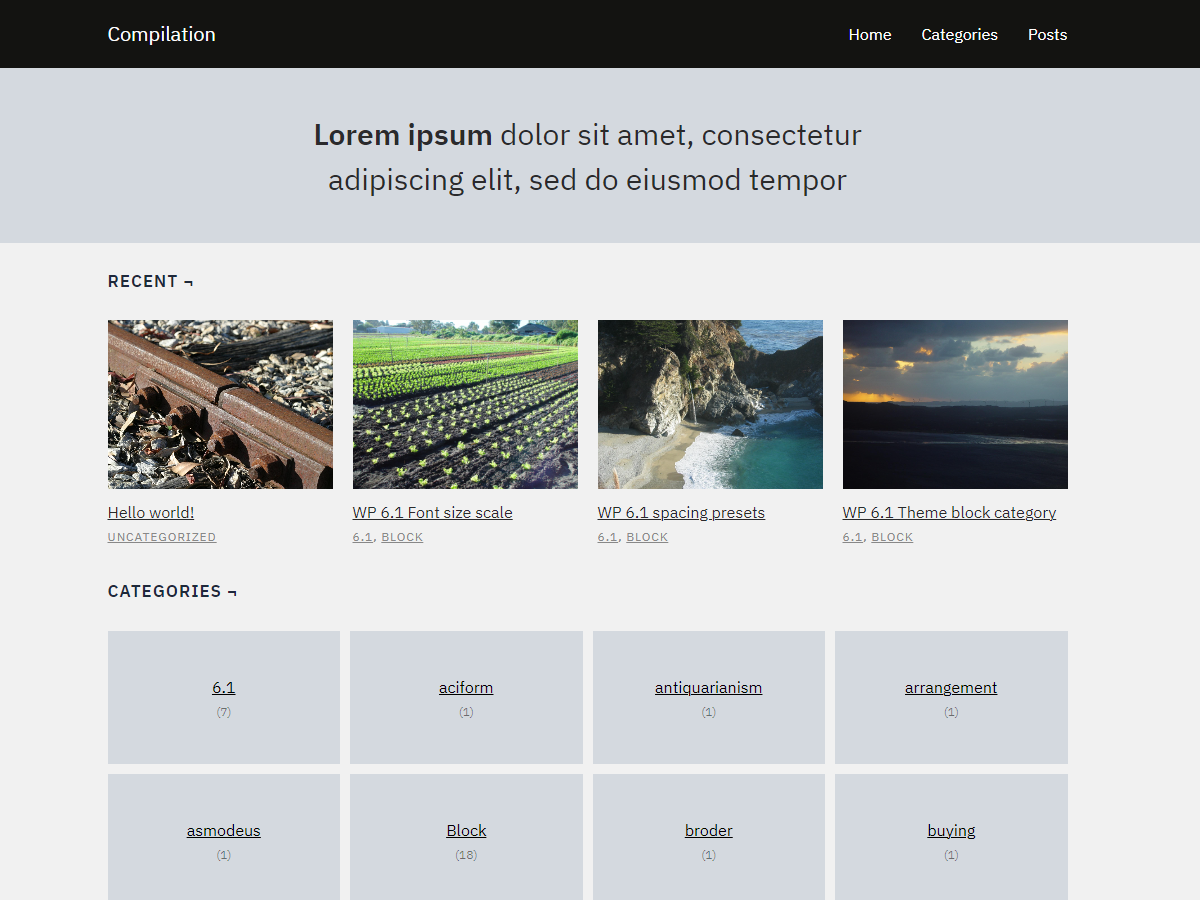
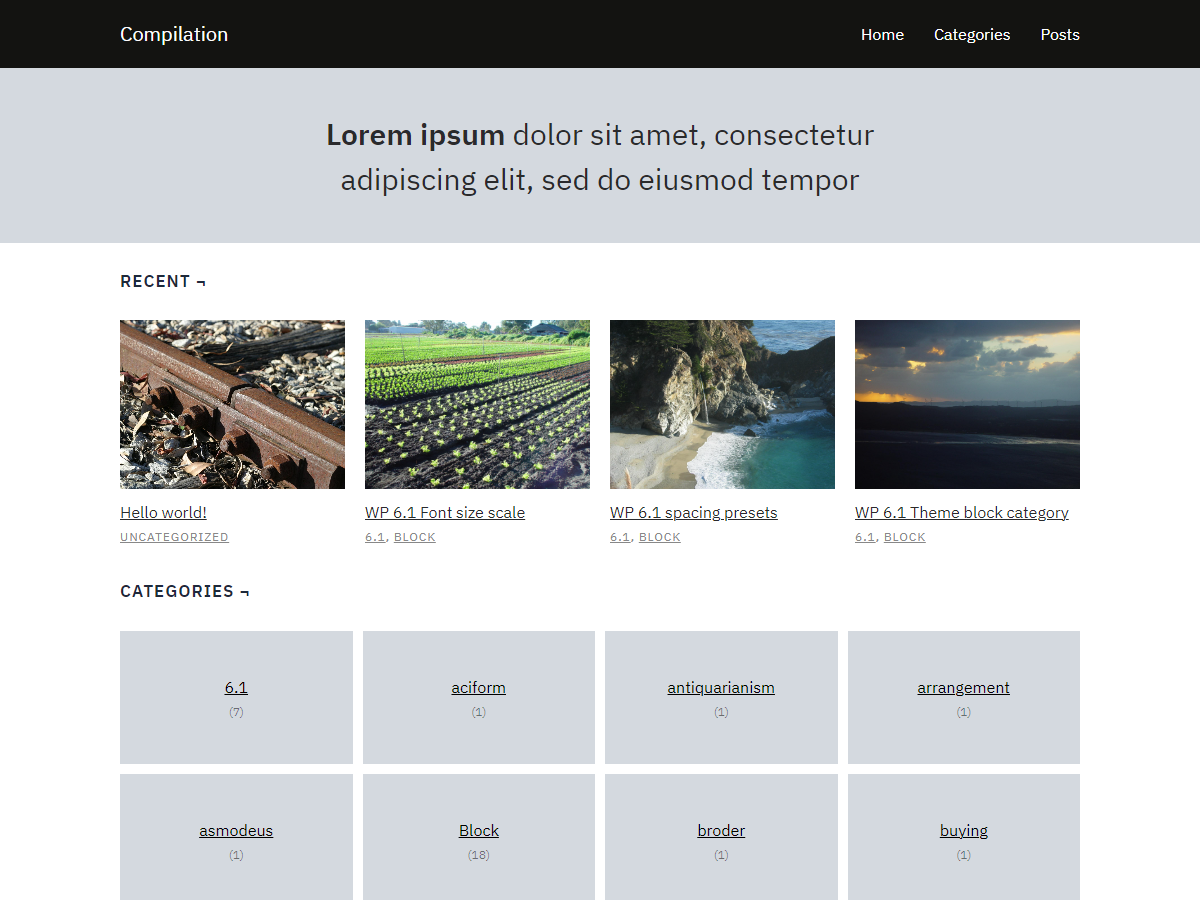
version 1.0.3

diff --git a/templates/page.html b/templates/page.html
@@ -1,13 +1,20 @@
 <!-- wp:template-part {"slug":"header","tagName":"header","className":"site-header"} /-->
 
 <!-- wp:group {"tagName":"main","style":{"spacing":{"margin":{"top":"0"},"padding":{"top":"0","bottom":"var:preset|spacing|large"}}}} -->
-<main class="wp-block-group" style="margin-top:0;padding-top:0;padding-bottom:var(--wp--preset--spacing--large)"><!-- wp:group {"tagName":"article","layout":{"type":"default"}} -->
-<article class="wp-block-group"><!-- wp:group {"tagName":"header","style":{"spacing":{"blockGap":"10px","padding":{"top":"45px","bottom":"45px","left":"0","right":"0"},"margin":{"top":"0","bottom":"0"}},"color":{"background":"#2a2a2c"},"elements":{"link":{"color":{"text":"var:preset|color|base"}}}},"textColor":"base","className":"entry-header","layout":{"type":"constrained","justifyContent":"center","contentSize":"960px"}} -->
-<header class="wp-block-group entry-header has-base-color has-text-color has-background has-link-color" style="background-color:#2a2a2c;margin-top:0;margin-bottom:0;padding-top:45px;padding-right:0;padding-bottom:45px;padding-left:0"><!-- wp:post-title {"level":1,"align":"wide","style":{"elements":{"link":{"color":{"text":"var:preset|color|white"}}}},"textColor":"white","fontSize":"x-large"} /--></header>
-<!-- /wp:group -->
+<main class="wp-block-group" style="margin-top:0;padding-top:0;padding-bottom:var(--wp--preset--spacing--large)">
+    <!-- wp:group {"tagName":"article","layout":{"type":"default"}} -->
+    <article class="wp-block-group">
+        <!-- wp:group {"tagName":"header","className":"entry-header","style":{"spacing":{"blockGap":"10px","padding":{"top":"45px","bottom":"45px","left":"0","right":"0"},"margin":{"top":"0","bottom":"0"}},"color":{"background":"#2a2a2c"},"elements":{"link":{"color":{"text":"var:preset|color|base"}}}},"textColor":"base","layout":{"type":"constrained","justifyContent":"center","contentSize":"960px"}} -->
+        <header class="wp-block-group entry-header has-base-color has-text-color has-background has-link-color"
+            style="background-color:#2a2a2c;margin-top:0;margin-bottom:0;padding-top:45px;padding-right:0;padding-bottom:45px;padding-left:0">
+            <!-- wp:post-title {"level":1,"style":{"elements":{"link":{"color":{"text":"var:preset|color|white"}}}},"textColor":"white","fontSize":"x-large"} /-->
+        </header>
+        <!-- /wp:group -->
 
-<!-- wp:post-content {"layout":{"type":"constrained","contentSize":"960px"}} /--></article>
-<!-- /wp:group --></main>
+        <!-- wp:post-content {"layout":{"type":"constrained"}} /-->
+    </article>
+    <!-- /wp:group -->
+</main>
 <!-- /wp:group -->
 
 <!-- wp:template-part {"slug":"footer","tagName":"footer","className":"site-footer"} /-->

diff --git a/templates/single.html b/templates/single.html
@@ -3,10 +3,10 @@
 <!-- wp:group {"tagName":"main","style":{"spacing":{"margin":{"top":"0"},"padding":{"top":"0","bottom":"0"}}}} -->
 <main class="wp-block-group" style="margin-top:0;padding-top:0;padding-bottom:0"><!-- wp:group {"tagName":"article","layout":{"type":"default"}} -->
 <article class="wp-block-group"><!-- wp:group {"tagName":"header","style":{"spacing":{"blockGap":"10px","padding":{"top":"45px","bottom":"45px","left":"0","right":"0"},"margin":{"top":"0","bottom":"0"}},"elements":{"link":{"color":{"text":"var:preset|color|secondary"}}},"color":{"background":"#d4d9df"}},"textColor":"secondary","className":"entry-header","layout":{"type":"constrained"}} -->
-<header class="wp-block-group entry-header has-secondary-color has-text-color has-background has-link-color" style="background-color:#d4d9df;margin-top:0;margin-bottom:0;padding-top:45px;padding-right:0;padding-bottom:45px;padding-left:0"><!-- wp:post-title {"level":1,"align":"wide","style":{"elements":{"link":{"color":{"text":"var:preset|color|secondary"}}}},"textColor":"secondary","fontSize":"x-large"} /-->
+<header class="wp-block-group entry-header has-secondary-color has-text-color has-background has-link-color" style="background-color:#d4d9df;margin-top:0;margin-bottom:0;padding-top:45px;padding-right:0;padding-bottom:45px;padding-left:0"><!-- wp:post-title {"level":1,"style":{"elements":{"link":{"color":{"text":"var:preset|color|secondary"}}}},"textColor":"secondary","fontSize":"x-large"} /-->
 
-<!-- wp:group {"align":"wide","style":{"spacing":{"blockGap":"5px","margin":{"bottom":"0px"}},"typography":{"fontSize":"18px"}},"className":"post-meta","layout":{"type":"flex"}} -->
-<div class="wp-block-group alignwide post-meta" style="margin-bottom:0px;font-size:18px"><!-- wp:post-date {"style":{"elements":{"link":{"color":{"text":"var:preset|color|primary"}}},"typography":{"fontSize":"14px"}},"textColor":"primary"} /-->
+<!-- wp:group {"style":{"spacing":{"blockGap":"5px","margin":{"bottom":"0px"}},"typography":{"fontSize":"18px"}},"className":"post-meta","layout":{"type":"flex"}} -->
+<div class="wp-block-group post-meta" style="margin-bottom:0px;font-size:18px"><!-- wp:post-date {"style":{"elements":{"link":{"color":{"text":"var:preset|color|primary"}}},"typography":{"fontSize":"14px"}},"textColor":"primary"} /-->
 
 <!-- wp:paragraph -->
 <p>·</p>

diff --git a/templates/archive.html b/templates/archive.html
@@ -1,9 +1,9 @@
 <!-- wp:template-part {"slug":"header","tagName":"header","className":"site-header"} /-->
 
 <!-- wp:group {"style":{"spacing":{"blockGap":"10px","padding":{"top":"45px","bottom":"45px","left":"0","right":"0"},"margin":{"top":"0","bottom":"0"}},"elements":{"link":{"color":{"text":"var:preset|color|secondary"}}},"color":{"background":"#d4d9df"}},"textColor":"secondary","className":"entry-header","layout":{"type":"constrained"}} -->
-<div class="wp-block-group entry-header has-secondary-color has-text-color has-background has-link-color" style="background-color:#d4d9df;margin-top:0;margin-bottom:0;padding-top:45px;padding-right:0;padding-bottom:45px;padding-left:0"><!-- wp:query-title {"type":"archive","showPrefix":false,"align":"wide","style":{"elements":{"link":{"color":{"text":"var:preset|color|secondary"}}}},"textColor":"secondary","fontSize":"x-large"} /-->
+<div class="wp-block-group entry-header has-secondary-color has-text-color has-background has-link-color" style="background-color:#d4d9df;margin-top:0;margin-bottom:0;padding-top:45px;padding-right:0;padding-bottom:45px;padding-left:0"><!-- wp:query-title {"type":"archive","showPrefix":false,"style":{"elements":{"link":{"color":{"text":"var:preset|color|secondary"}}}},"textColor":"secondary","fontSize":"x-large"} /-->
 
-<!-- wp:term-description {"align":"wide","style":{"spacing":{"blockGap":"5px","margin":{"bottom":"0px"}},"typography":{"fontSize":"14px"},"elements":{"link":{"color":{"text":"var:preset|color|primary"}}}},"textColor":"primary","className":"post-meta"} /--></div>
+<!-- wp:term-description {"style":{"spacing":{"blockGap":"5px","margin":{"bottom":"0px"}},"typography":{"fontSize":"14px"},"elements":{"link":{"color":{"text":"var:preset|color|primary"}}}},"textColor":"primary","className":"post-meta"} /--></div>
 <!-- /wp:group -->
 
 

diff --git a/style.css b/style.css
@@ -7,7 +7,7 @@ Description: A minimalist block theme for content curators. With its clean and m
 Requires at least: 6.5
 Tested up to: 6.6
 Requires PHP: 7.0
-Version: 1.0.1
+Version: 1.0.3
 License: GNU General Public License v3
 License URI: https://www.gnu.org/licenses/gpl-3.0.html
 Text Domain: compilation

diff --git a/patterns/home-default.php b/patterns/home-default.php
@@ -9,14 +9,14 @@
 <!-- wp:pattern {"slug":"compilation/hero-default"} /-->
 
 <!-- wp:group {"layout":{"type":"constrained"}} -->
-<div class="wp-block-group"><!-- wp:group {"align":"wide","layout":{"type":"flex","orientation":"vertical"}} -->
-<div class="wp-block-group alignwide"><!-- wp:heading {"textAlign":"left","level":3,"style":{"elements":{"link":{"color":{"text":"var:preset|color|contrast"}}},"typography":{"letterSpacing":"1px","lineHeight":"1","fontSize":"17px","textTransform":"uppercase","fontStyle":"normal","fontWeight":"700"},"layout":{"selfStretch":"fit","flexSize":null}},"textColor":"contrast"} -->
+<div class="wp-block-group"><!-- wp:group {"layout":{"type":"flex","orientation":"vertical"}} -->
+<div class="wp-block-group"><!-- wp:heading {"textAlign":"left","level":3,"style":{"elements":{"link":{"color":{"text":"var:preset|color|contrast"}}},"typography":{"letterSpacing":"1px","lineHeight":"1","fontSize":"17px","textTransform":"uppercase","fontStyle":"normal","fontWeight":"700"},"layout":{"selfStretch":"fit","flexSize":null}},"textColor":"contrast"} -->
 <h3 class="wp-block-heading has-text-align-left has-contrast-color has-text-color has-link-color" style="font-size:17px;font-style:normal;font-weight:700;letter-spacing:1px;line-height:1;text-transform:uppercase"><?php echo esc_html__( 'Recent ¬', 'compilation' ); ?></h3>
 <!-- /wp:heading -->
 
 <!-- wp:group {"tagName":"main","className":"is-style-default","style":{"spacing":{"margin":{"top":"0"},"padding":{"top":"0px","bottom":"0px"}}}} -->
 <main class="wp-block-group is-style-default" style="margin-top:0;padding-top:0px;padding-bottom:0px"><!-- wp:query {"queryId":0,"query":{"pages":0,"offset":0,"postType":"post","order":"desc","orderBy":"date","author":"","search":"","exclude":[],"sticky":"exclude","inherit":false,"perPage":"4"},"enhancedPagination":true,"layout":{"type":"default"}} -->
-<div class="wp-block-query"><!-- wp:post-template {"align":"wide","style":{"spacing":{"blockGap":"var:preset|spacing|x-small"}},"layout":{"type":"grid","columnCount":4}} -->
+<div class="wp-block-query"><!-- wp:post-template {"style":{"spacing":{"blockGap":"var:preset|spacing|x-small"}},"layout":{"type":"grid","columnCount":4}} -->
 <!-- wp:group {"tagName":"article","layout":{"type":"default"}} -->
 <article class="wp-block-group"><!-- wp:group {"tagName":"header","className":"entry-header","style":{"spacing":{"blockGap":"10px"}}} -->
 <header class="wp-block-group entry-header"><!-- wp:post-featured-image {"isLink":true,"aspectRatio":"4/3","style":{"border":{"radius":"0px"}}} /-->
@@ -33,11 +33,11 @@
 <!-- /wp:group -->
 
 <!-- wp:group {"style":{"spacing":{"margin":{"bottom":"40px"}}},"layout":{"type":"constrained"}} -->
-<div class="wp-block-group" style="margin-bottom:40px"><!-- wp:group {"align":"wide","layout":{"type":"flex","orientation":"vertical"}} -->
-<div class="wp-block-group alignwide"><!-- wp:heading {"textAlign":"left","style":{"elements":{"link":{"color":{"text":"var:preset|color|contrast"}}},"typography":{"fontSize":"17px","letterSpacing":"1px","textTransform":"uppercase","fontStyle":"normal","fontWeight":"700"}},"textColor":"contrast"} -->
+<div class="wp-block-group" style="margin-bottom:40px"><!-- wp:group {"layout":{"type":"flex","orientation":"vertical"}} -->
+<div class="wp-block-group"><!-- wp:heading {"textAlign":"left","style":{"elements":{"link":{"color":{"text":"var:preset|color|contrast"}}},"typography":{"fontSize":"17px","letterSpacing":"1px","textTransform":"uppercase","fontStyle":"normal","fontWeight":"700"}},"textColor":"contrast"} -->
 <h2 class="wp-block-heading has-text-align-left has-contrast-color has-text-color has-link-color" style="font-size:17px;font-style:normal;font-weight:700;letter-spacing:1px;text-transform:uppercase"><?php echo esc_html__( 'Categories ¬', 'compilation' ); ?></h2>
 <!-- /wp:heading --></div>
 <!-- /wp:group -->
 
-<!-- wp:categories {"showPostCounts":true,"showOnlyTopLevel":true,"metadata":{"name":"Compilation Categories"},"align":"wide","className":"is-style-category-block"} /--></div>
+<!-- wp:categories {"showPostCounts":true,"showOnlyTopLevel":true,"metadata":{"name":"Compilation Categories"},"className":"is-style-category-block"} /--></div>
 <!-- /wp:group -->

diff --git a/patterns/header-default.php b/patterns/header-default.php
@@ -6,9 +6,10 @@
  * Block Types: core/template-part/header
  */
 ?>
-<!-- wp:group {"style":{"color":{"background":"#131311"},"elements":{"link":{"color":{"text":"var:preset|color|white"}}},"dimensions":{"minHeight":"0px"},"spacing":{"padding":{"top":"0","bottom":"0","left":"var:preset|spacing|small","right":"var:preset|spacing|small"},"margin":{"top":"0","bottom":"0"},"blockGap":"0"}},"textColor":"white","layout":{"inherit":"true","type":"constrained","contentSize":"960px"}} -->
-<div class="wp-block-group has-white-color has-text-color has-background has-link-color" style="background-color:#131311;min-height:0px;margin-top:0;margin-bottom:0;padding-top:0;padding-right:var(--wp--preset--spacing--small);padding-bottom:0;padding-left:var(--wp--preset--spacing--small)"><!-- wp:group {"align":"wide","style":{"spacing":{"padding":{"bottom":"20px","top":"20px"}}},"layout":{"type":"flex","justifyContent":"space-between"}} -->
-<div class="wp-block-group alignwide" style="padding-top:20px;padding-bottom:20px"><!-- wp:group {"layout":{"type":"flex"}} -->
+
+<!-- wp:group {"style":{"color":{"background":"#131311"},"elements":{"link":{"color":{"text":"var:preset|color|white"}}},"dimensions":{"minHeight":"0px"},"spacing":{"padding":{"top":"0","bottom":"0","left":"var:preset|spacing|small","right":"var:preset|spacing|small"},"margin":{"top":"0","bottom":"0"},"blockGap":"0"}},"textColor":"white","layout":{"type":"constrained"}} -->
+<div class="wp-block-group has-white-color has-text-color has-background has-link-color" style="background-color:#131311;min-height:0px;margin-top:0;margin-bottom:0;padding-top:0;padding-right:var(--wp--preset--spacing--small);padding-bottom:0;padding-left:var(--wp--preset--spacing--small)"><!-- wp:group {"style":{"spacing":{"padding":{"bottom":"20px","top":"20px"}}},"layout":{"type":"flex","justifyContent":"space-between"}} -->
+<div class="wp-block-group" style="padding-top:20px;padding-bottom:20px"><!-- wp:group {"layout":{"type":"flex"}} -->
 <div class="wp-block-group"><!-- wp:site-logo {"width":64,"className":"is-style-rounded","style":{"color":{"duotone":"var:preset|duotone|grayscale"}}} /-->
 
 <!-- wp:group -->
@@ -19,4 +20,3 @@
 <!-- wp:navigation {"ref":2224,"style":{"spacing":{"margin":{"top":"0"}},"layout":{"selfStretch":"fit","flexSize":null}},"fontSize":"x-small","layout":{"type":"flex","setCascadingProperties":true,"justifyContent":"right","orientation":"horizontal"}} /--></div>
 <!-- /wp:group --></div>
 <!-- /wp:group -->
-

diff --git a/patterns/footer-default.php b/patterns/footer-default.php
@@ -7,8 +7,8 @@
  */
 ?>
 <!-- wp:group {"align":"full","style":{"elements":{"link":{"color":{"text":"var:preset|color|base"}}},"spacing":{"padding":{"top":"40px","bottom":"40px","left":"30px","right":"30px"},"margin":{"top":"0","bottom":"0"}}},"backgroundColor":"secondary","textColor":"base","className":"has-background-color","layout":{"type":"constrained","contentSize":"960px"},"fontSize":"small"} -->
-<div class="wp-block-group alignfull has-background-color has-base-color has-secondary-background-color has-text-color has-background has-link-color has-small-font-size" style="margin-top:0;margin-bottom:0;padding-top:40px;padding-right:30px;padding-bottom:40px;padding-left:30px"><!-- wp:columns {"align":"wide","style":{"elements":{"link":{"color":[]}}}} -->
-<div class="wp-block-columns alignwide has-link-color"><!-- wp:column {"width":"55%"} -->
+<div class="wp-block-group alignfull has-background-color has-base-color has-secondary-background-color has-text-color has-background has-link-color has-small-font-size" style="margin-top:0;margin-bottom:0;padding-top:40px;padding-right:30px;padding-bottom:40px;padding-left:30px"><!-- wp:columns {"style":{"elements":{"link":{"color":[]}}}} -->
+<div class="wp-block-columns has-link-color"><!-- wp:column {"width":"55%"} -->
 <div class="wp-block-column" style="flex-basis:55%"><!-- wp:heading {"level":4,"style":{"typography":{"lineHeight":"1"}},"className":"wp-block-heading","fontSize":"medium"} -->
 <h4 class="wp-block-heading has-medium-font-size" id="our-company" style="line-height:1"><?php echo esc_html__( 'About ¬', 'compilation' ); ?></h4>
 <!-- /wp:heading -->
@@ -18,7 +18,7 @@
 <!-- /wp:paragraph -->
 
 <!-- wp:paragraph {"align":"left","style":{"elements":{"link":{"color":{"text":"var:preset|color|cyan-bluish-gray"}}},"typography":{"fontSize":"15px"}}} -->
-<p class="has-text-align-left has-link-color" style="font-size:15px">&copy; <?php echo esc_html( gmdate( 'Y' ) ); ?> • Powered by <a href="https://mildthemes.co/compilation-wordpress-theme/" target="_blank">Compilation WordPress theme</a>.</p>
+<p class="has-text-align-left has-link-color" style="font-size:15px">&copy; <?php echo esc_html( gmdate( 'Y' ) ); ?> • Powered by WordPress & <a href="https://mildthemes.co/compilation-wordpress-theme/" target="_blank">Compilation</a></p>
 <!-- /wp:paragraph --></div>
 <!-- /wp:column -->
 

diff --git a/patterns/posts.php b/patterns/posts.php
@@ -8,7 +8,7 @@
 ?>
 <!-- wp:group {"tagName":"main","style":{"spacing":{"margin":{"top":"0"},"padding":{"top":"40px","bottom":"0px"}}},"className":"is-style-default"} -->
 <main class="wp-block-group is-style-default" style="margin-top:0;padding-top:40px;padding-bottom:0px"><!-- wp:query {"queryId":0,"query":{"pages":0,"offset":0,"postType":"post","order":"desc","orderBy":"date","author":"","search":"","exclude":[],"sticky":"","inherit":true,"perPage":12},"layout":{"type":"constrained"}} -->
-<div class="wp-block-query"><!-- wp:post-template {"align":"wide","style":{"spacing":{"blockGap":"var:preset|spacing|x-small"}},"layout":{"type":"grid","columnCount":4}} -->
+<div class="wp-block-query"><!-- wp:post-template {"style":{"spacing":{"blockGap":"var:preset|spacing|x-small"}},"layout":{"type":"grid","columnCount":4}} -->
 <!-- wp:group {"tagName":"article","layout":{"type":"default"}} -->
 <article class="wp-block-group"><!-- wp:group {"tagName":"header","style":{"spacing":{"blockGap":"10px"}},"className":"entry-header"} -->
 <header class="wp-block-group entry-header"><!-- wp:post-featured-image {"isLink":true,"aspectRatio":"4/3"} /-->
@@ -20,8 +20,8 @@
 <!-- /wp:group -->
 <!-- /wp:post-template -->
 
-<!-- wp:group {"align":"wide","style":{"spacing":{"margin":{"bottom":"40px"}}},"layout":{"type":"constrained"}} -->
-<div class="wp-block-group alignwide" style="margin-bottom:40px"><!-- wp:query-pagination {"paginationArrow":"arrow","showLabel":false,"align":"wide","style":{"typography":{"letterSpacing":"5px"}},"className":"is-style-pagination-button","layout":{"type":"flex","justifyContent":"center","flexWrap":"wrap","verticalAlignment":"center"}} -->
+<!-- wp:group {"style":{"spacing":{"margin":{"bottom":"40px"}}},"layout":{"type":"constrained"}} -->
+<div class="wp-block-group" style="margin-bottom:40px"><!-- wp:query-pagination {"paginationArrow":"arrow","showLabel":false,"style":{"typography":{"letterSpacing":"5px"}},"className":"is-style-pagination-button","layout":{"type":"flex","justifyContent":"center","flexWrap":"wrap","verticalAlignment":"center"}} -->
 <!-- wp:query-pagination-previous /-->
 
 <!-- wp:query-pagination-numbers {"midSize":1,"backgroundColor":"base"} /-->

diff --git a/patterns/404.php b/patterns/404.php
@@ -7,14 +7,14 @@
  */
 ?>
 <!-- wp:group {"style":{"spacing":{"blockGap":"10px","padding":{"top":"45px","bottom":"45px","left":"0","right":"0"},"margin":{"top":"0","bottom":"0"}},"elements":{"link":{"color":{"text":"var:preset|color|secondary"}}},"color":{"background":"#d4d9df"}},"textColor":"secondary","className":"entry-header","layout":{"type":"constrained"}} -->
-<div class="wp-block-group entry-header has-secondary-color has-text-color has-background has-link-color" style="background-color:#d4d9df;margin-top:0;margin-bottom:0;padding-top:45px;padding-right:0;padding-bottom:45px;padding-left:0"><!-- wp:heading {"textAlign":"left","level":1,"align":"wide"} -->
-<h1 class="wp-block-heading alignwide has-text-align-left"><?php echo esc_html__( 'Not found, error 404', 'compilation' ); ?></h1>
+<div class="wp-block-group entry-header has-secondary-color has-text-color has-background has-link-color" style="background-color:#d4d9df;margin-top:0;margin-bottom:0;padding-top:45px;padding-right:0;padding-bottom:45px;padding-left:0"><!-- wp:heading {"textAlign":"left","level":1} -->
+<h1 class="wp-block-heading has-text-align-left"><?php echo esc_html__( 'Not found, error 404', 'compilation' ); ?></h1>
 <!-- /wp:heading --></div>
 <!-- /wp:group -->
 
 <!-- wp:group {"tagName":"main","style":{"spacing":{"margin":{"top":"0"},"padding":{"top":"40px","bottom":"40px"}}},"layout":{"type":"constrained"}} -->
-<main class="wp-block-group" style="margin-top:0;padding-top:40px;padding-bottom:40px"><!-- wp:group {"align":"wide","layout":{"type":"default"}} -->
-<div class="wp-block-group alignwide"><!-- wp:paragraph -->
+<main class="wp-block-group" style="margin-top:0;padding-top:40px;padding-bottom:40px"><!-- wp:group {"layout":{"type":"default"}} -->
+<div class="wp-block-group"><!-- wp:paragraph -->
 <p><?php echo esc_html__( 'The page you were looking for could not be found. It might have been removed, renamed, or did not exist in the first place. Please try searching using the form below.', 'compilation' ); ?></p>
 <!-- /wp:paragraph -->
 

diff --git a/patterns/hero-default.php b/patterns/hero-default.php
@@ -6,7 +6,7 @@
  * Keywords: hero, default
  */
 ?>
-<!-- wp:cover {"customOverlayColor":"#d4d9df","isUserOverlayColor":true,"minHeight":175,"minHeightUnit":"px","isDark":false,"style":{"spacing":{"margin":{"top":"0","bottom":"var:preset|spacing|x-small"},"padding":{"top":"0","bottom":"0"},"blockGap":"var:preset|spacing|x-small"},"typography":{"lineHeight":"0"},"elements":{"link":{"color":{"text":"var:preset|color|secondary"}}}},"textColor":"secondary","layout":{"type":"constrained"}} -->
+<!-- wp:cover {"customOverlayColor":"#d4d9df","isUserOverlayColor":true,"minHeight":175,"minHeightUnit":"px","isDark":false,"style":{"spacing":{"margin":{"top":"0","bottom":"var:preset|spacing|x-small"},"padding":{"top":"0","bottom":"0"},"blockGap":"var:preset|spacing|x-small"},"typography":{"lineHeight":"0"},"elements":{"link":{"color":{"text":"var:preset|color|secondary"}}}},"textColor":"secondary","layout":{"type":"constrained","contentSize":"620px","wideSize":"960px"}} -->
 <div class="wp-block-cover is-light has-secondary-color has-text-color has-link-color" style="margin-top:0;margin-bottom:var(--wp--preset--spacing--x-small);padding-top:0;padding-bottom:0;line-height:0;min-height:175px"><span aria-hidden="true" class="wp-block-cover__background has-background-dim-100 has-background-dim" style="background-color:#d4d9df"></span><div class="wp-block-cover__inner-container"><!-- wp:heading {"textAlign":"center","level":1,"style":{"typography":{"fontStyle":"normal","fontWeight":"700","lineHeight":"1.5"}},"fontSize":"x-large"} -->
 <h1 class="wp-block-heading has-text-align-center has-x-large-font-size" style="font-style:normal;font-weight:700;line-height:1.5"><?php echo esc_html__( 'Compilation', 'compilation' ); ?><strong> <?php echo esc_html__( 'is a minimalist WordPress block theme for content curators', 'compilation' ); ?></strong></h1>
 <!-- /wp:heading --></div></div>
